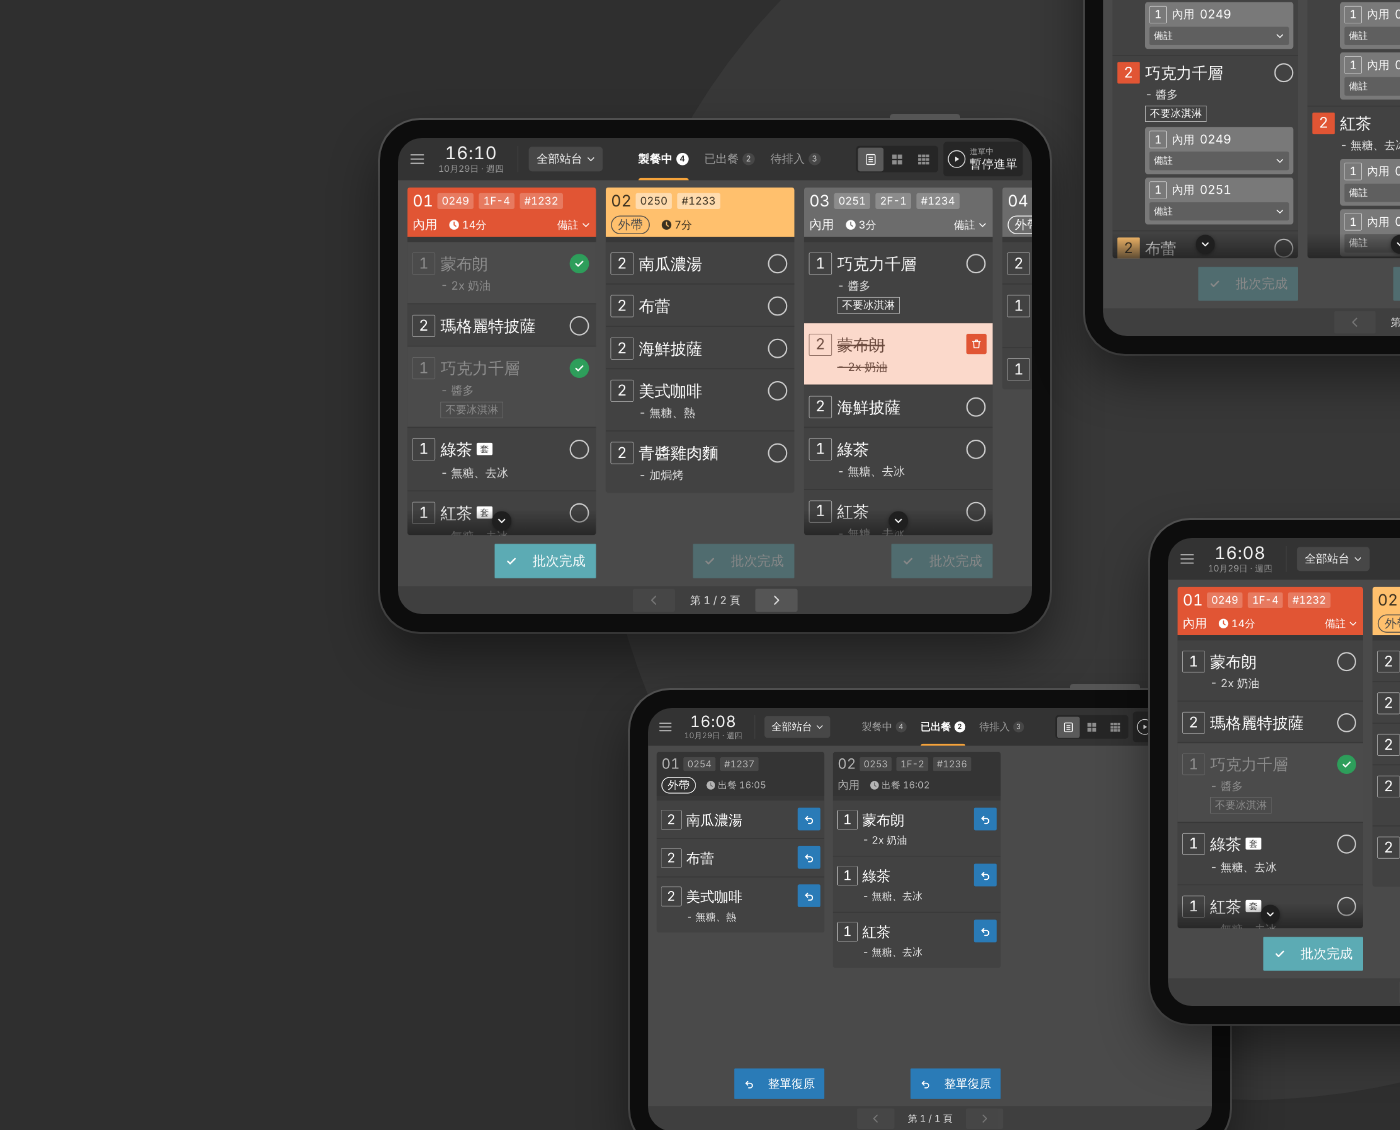
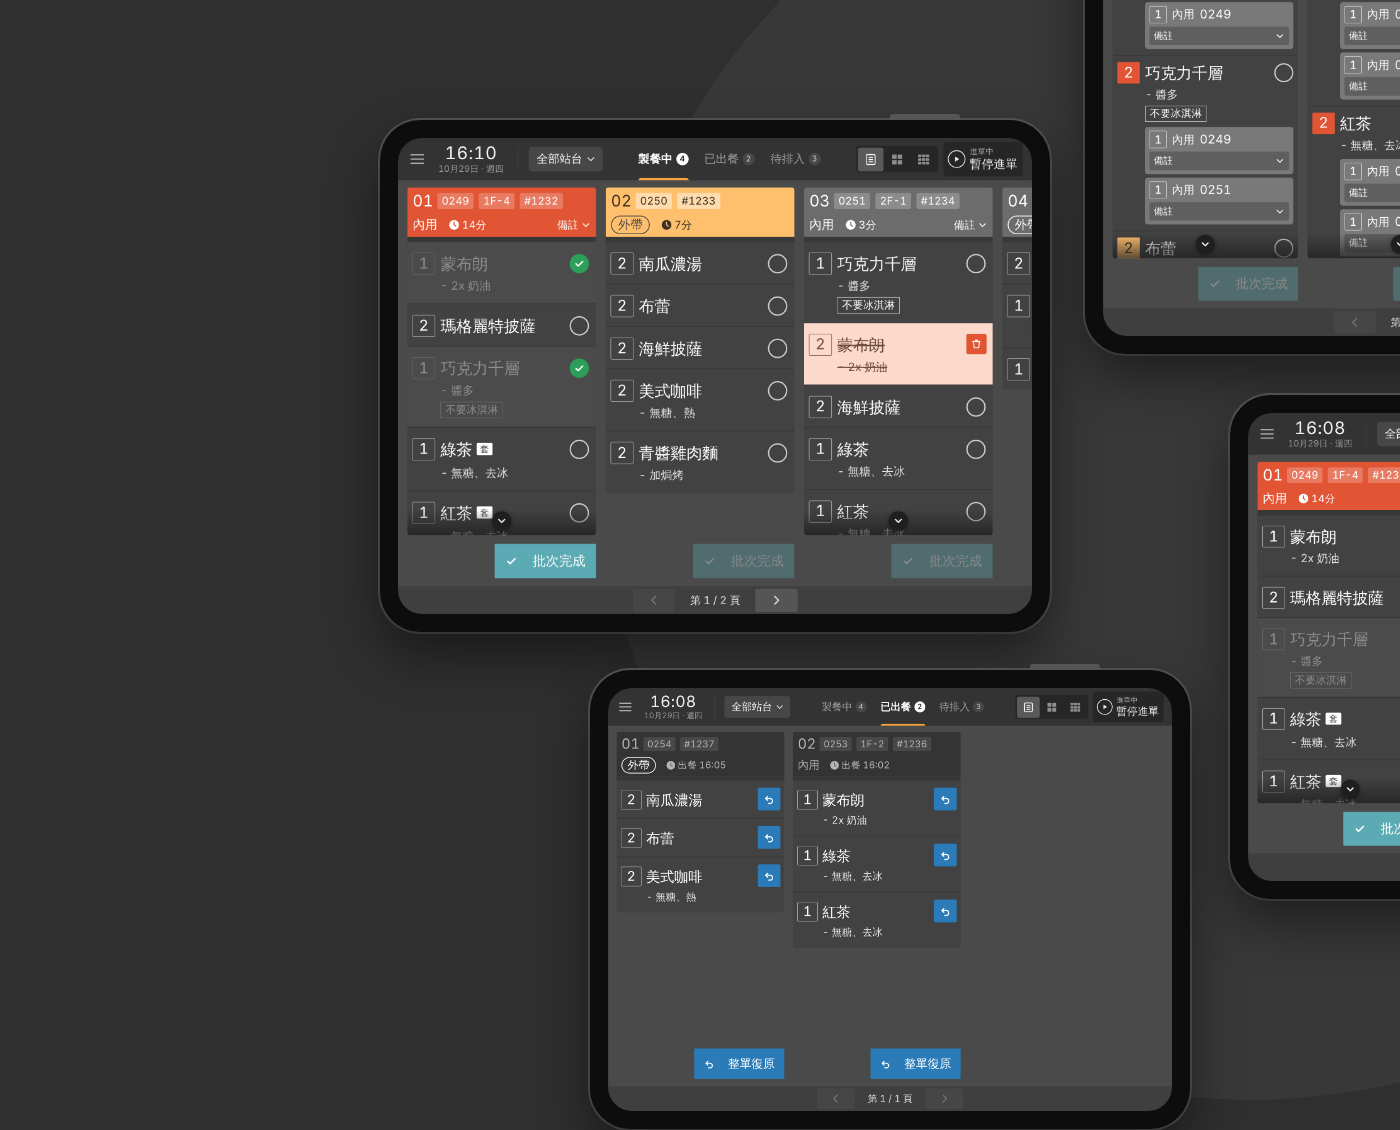
KDS cover: tablets no longer overlap
Claude-Session: https://claude.ai/code/session_01NDe3p8GQ2HZ5WF8ct1RAfY

Changed region(s): [[0.3993, 0.3407, 1.0, 1.0]]

diff --git a/script.js b/script.js
@@ -11,7 +11,7 @@ function updateLanguageControls(){const toggle=document.querySelector('#language
 document.querySelector('#language-toggle')?.addEventListener('click',()=>setPortfolioLanguage(isEnglish()?'zh':'en'));
 const figmaURL='https://www.figma.com/design/S2sh6gtlIJ3JtDM7i3MEiN/portfolio?node-id=1654-18351';
 const repoURL='https://github.com/chi861008/researved-system';
-const visual=(name)=>name==='schedule'?'<div class="work-visual visual-schedule"><div class="arrow-circle" aria-hidden="true">↗</div><div class="schedule-mock"><div class="schedule-top"><strong>Weekly schedule</strong><span>October / 2026　↗</span></div><div class="calendar-week">'+['MON','TUE','WED','THU','FRI','SAT','SUN'].map((d,i)=>'<div class="calendar-day"><b>'+d+'</b>'+(i===0||i===2||i===4?'<span class="calendar-pill">Pilates 10:00</span>':'')+(i===1||i===3?'<span class="calendar-pill orange-pill">Private 14:00</span>':'')+'</div>').join('')+'</div></div></div>':name==='kiosk'?'<div class="work-visual visual-kiosk kiosk-image-cover"><img src="./kiosk-cover.png?v=4" alt="KIOSK 自助點餐介面與付款引導的設計畫面拼貼"><div class="arrow-circle" aria-hidden="true">↗</div></div>':'<div class="work-visual visual-kds kds-image-cover"><img src="./kds-cover.png?v=4" alt="KDS 個人概念設計封面：深色廚房訂單與分類畫面的介面拼貼"><div class="arrow-circle" aria-hidden="true">↗</div></div>';
+const visual=(name)=>name==='schedule'?'<div class="work-visual visual-schedule"><div class="arrow-circle" aria-hidden="true">↗</div><div class="schedule-mock"><div class="schedule-top"><strong>Weekly schedule</strong><span>October / 2026　↗</span></div><div class="calendar-week">'+['MON','TUE','WED','THU','FRI','SAT','SUN'].map((d,i)=>'<div class="calendar-day"><b>'+d+'</b>'+(i===0||i===2||i===4?'<span class="calendar-pill">Pilates 10:00</span>':'')+(i===1||i===3?'<span class="calendar-pill orange-pill">Private 14:00</span>':'')+'</div>').join('')+'</div></div></div>':name==='kiosk'?'<div class="work-visual visual-kiosk kiosk-image-cover"><img src="./kiosk-cover.png?v=4" alt="KIOSK 自助點餐介面與付款引導的設計畫面拼貼"><div class="arrow-circle" aria-hidden="true">↗</div></div>':'<div class="work-visual visual-kds kds-image-cover"><img src="./kds-cover.png?v=5" alt="KDS 個人概念設計封面：深色廚房訂單與分類畫面的介面拼貼"><div class="arrow-circle" aria-hidden="true">↗</div></div>';
 const card=p=>'<a class="work-card" href="#/case/'+p.id+'">'+visual(p.visual)+'<div class="work-info"><div><h3>'+p.title+'</h3><p>'+p.zh+'<br>'+p.type+'</p></div><div class="project-number">'+p.number+' / 03</div></div></a>';
 function home(){return '<section class="identity-hero"><div class="identity-wrap"><h1 class="visually-hidden">Yuan Chi — Product Manager &amp; Product Designer</h1><div class="identity-caption">PORTFOLIO / 2026</div><div class="identity-title"><span>Yuan</span><figure class="identity-photo"><img src="./yuan-chi-expressive-hero.png" alt="Yuan Chi 俏皮的黑白個人照片" fetchpriority="high" loading="eager" decoding="async"><i class="corner c1"></i><i class="corner c2"></i><i class="corner c3"></i><i class="corner c4"></i></figure><span>Chi</span></div><div class="identity-details"><p>Product Manager ×<br>Product Designer</p><p>Research / Strategy / Design<br>From insight to working product</p><p>Based in Taiwan<br><a href="mailto:chi861008@gmail.com">chi861008@gmail.com ↗</a></p></div></div></section><section class="intro-portrait wrap" id="about"><div class="intro-copy"><div class="eyebrow">ABOUT ME</div><h2>Hi<span class="orange">.</span></h2><p>我是產品設計師，正往產品經理發展。擅長把模糊的業務問題拆成可以驗證的假設，再用研究、設計與可運作的原型，幫團隊做出取捨。</p><p>過去曾參與餐飲 POS、自助點餐機、雲端報表及廚房顯示系統等產品。工作之外，我也喜歡從生活中的真實問題發起 Side Project，讓研究、設計與開發不只停留在工作中，也能實際應用於日常生活。</p><a class="intro-link" href="#/about">More about me <span>↗</span></a></div><div class="intro-visual"><img src="./yuan-chi-about-crossleg-slim.svg" alt="Yuan Chi 個人黑白形象照"><div class="orbit-word">DESIGN · RESEARCH · PRODUCT · BUILD ·</div></div></section><section class="section-space wrap" id="work"><div class="section-head selected-head"><div><div class="eyebrow">SELECTED WORK / 2026</div><h2>Works record<span class="orange">.</span></h2></div></div><div class="work-grid identity-works">'+projects.map(card).join('')+'</div></section><section class="dark-band"><div class="wrap"><div class="eyebrow">THE WAY I THINK</div><h2>Fall in love with the problem, not the solution.</h2><a href="mailto:chi861008@gmail.com">Let’s connect ↗</a></div></section>';}
 function aboutSection(){return '<section class="section-space wrap" id="about"><div class="about-mini"><div><div class="eyebrow">02 / About</div><h2>Curious by nature.<br>Builder by choice.</h2></div><div><p>我的背景跨越工業設計、使用者研究與數位產品設計，做過餐飲 POS、自助點餐機與廚房顯示系統。現在我往產品經理發展：定義問題、排定優先順序、用最小成本驗證，必要時用 AI 輔助開發自己把原型做出來。</p><p>我喜歡定義問題、串聯不同線索、提出解法，以及把複雜的邏輯整理得讓人容易理解。</p><div class="skills"><span class="chip">Product Discovery</span><span class="chip">Prioritization</span><span class="chip">UX Research</span><span class="chip">Product Design</span><span class="chip">Prototyping</span><span class="chip">AI-assisted Development</span></div></div></div></section>';}
